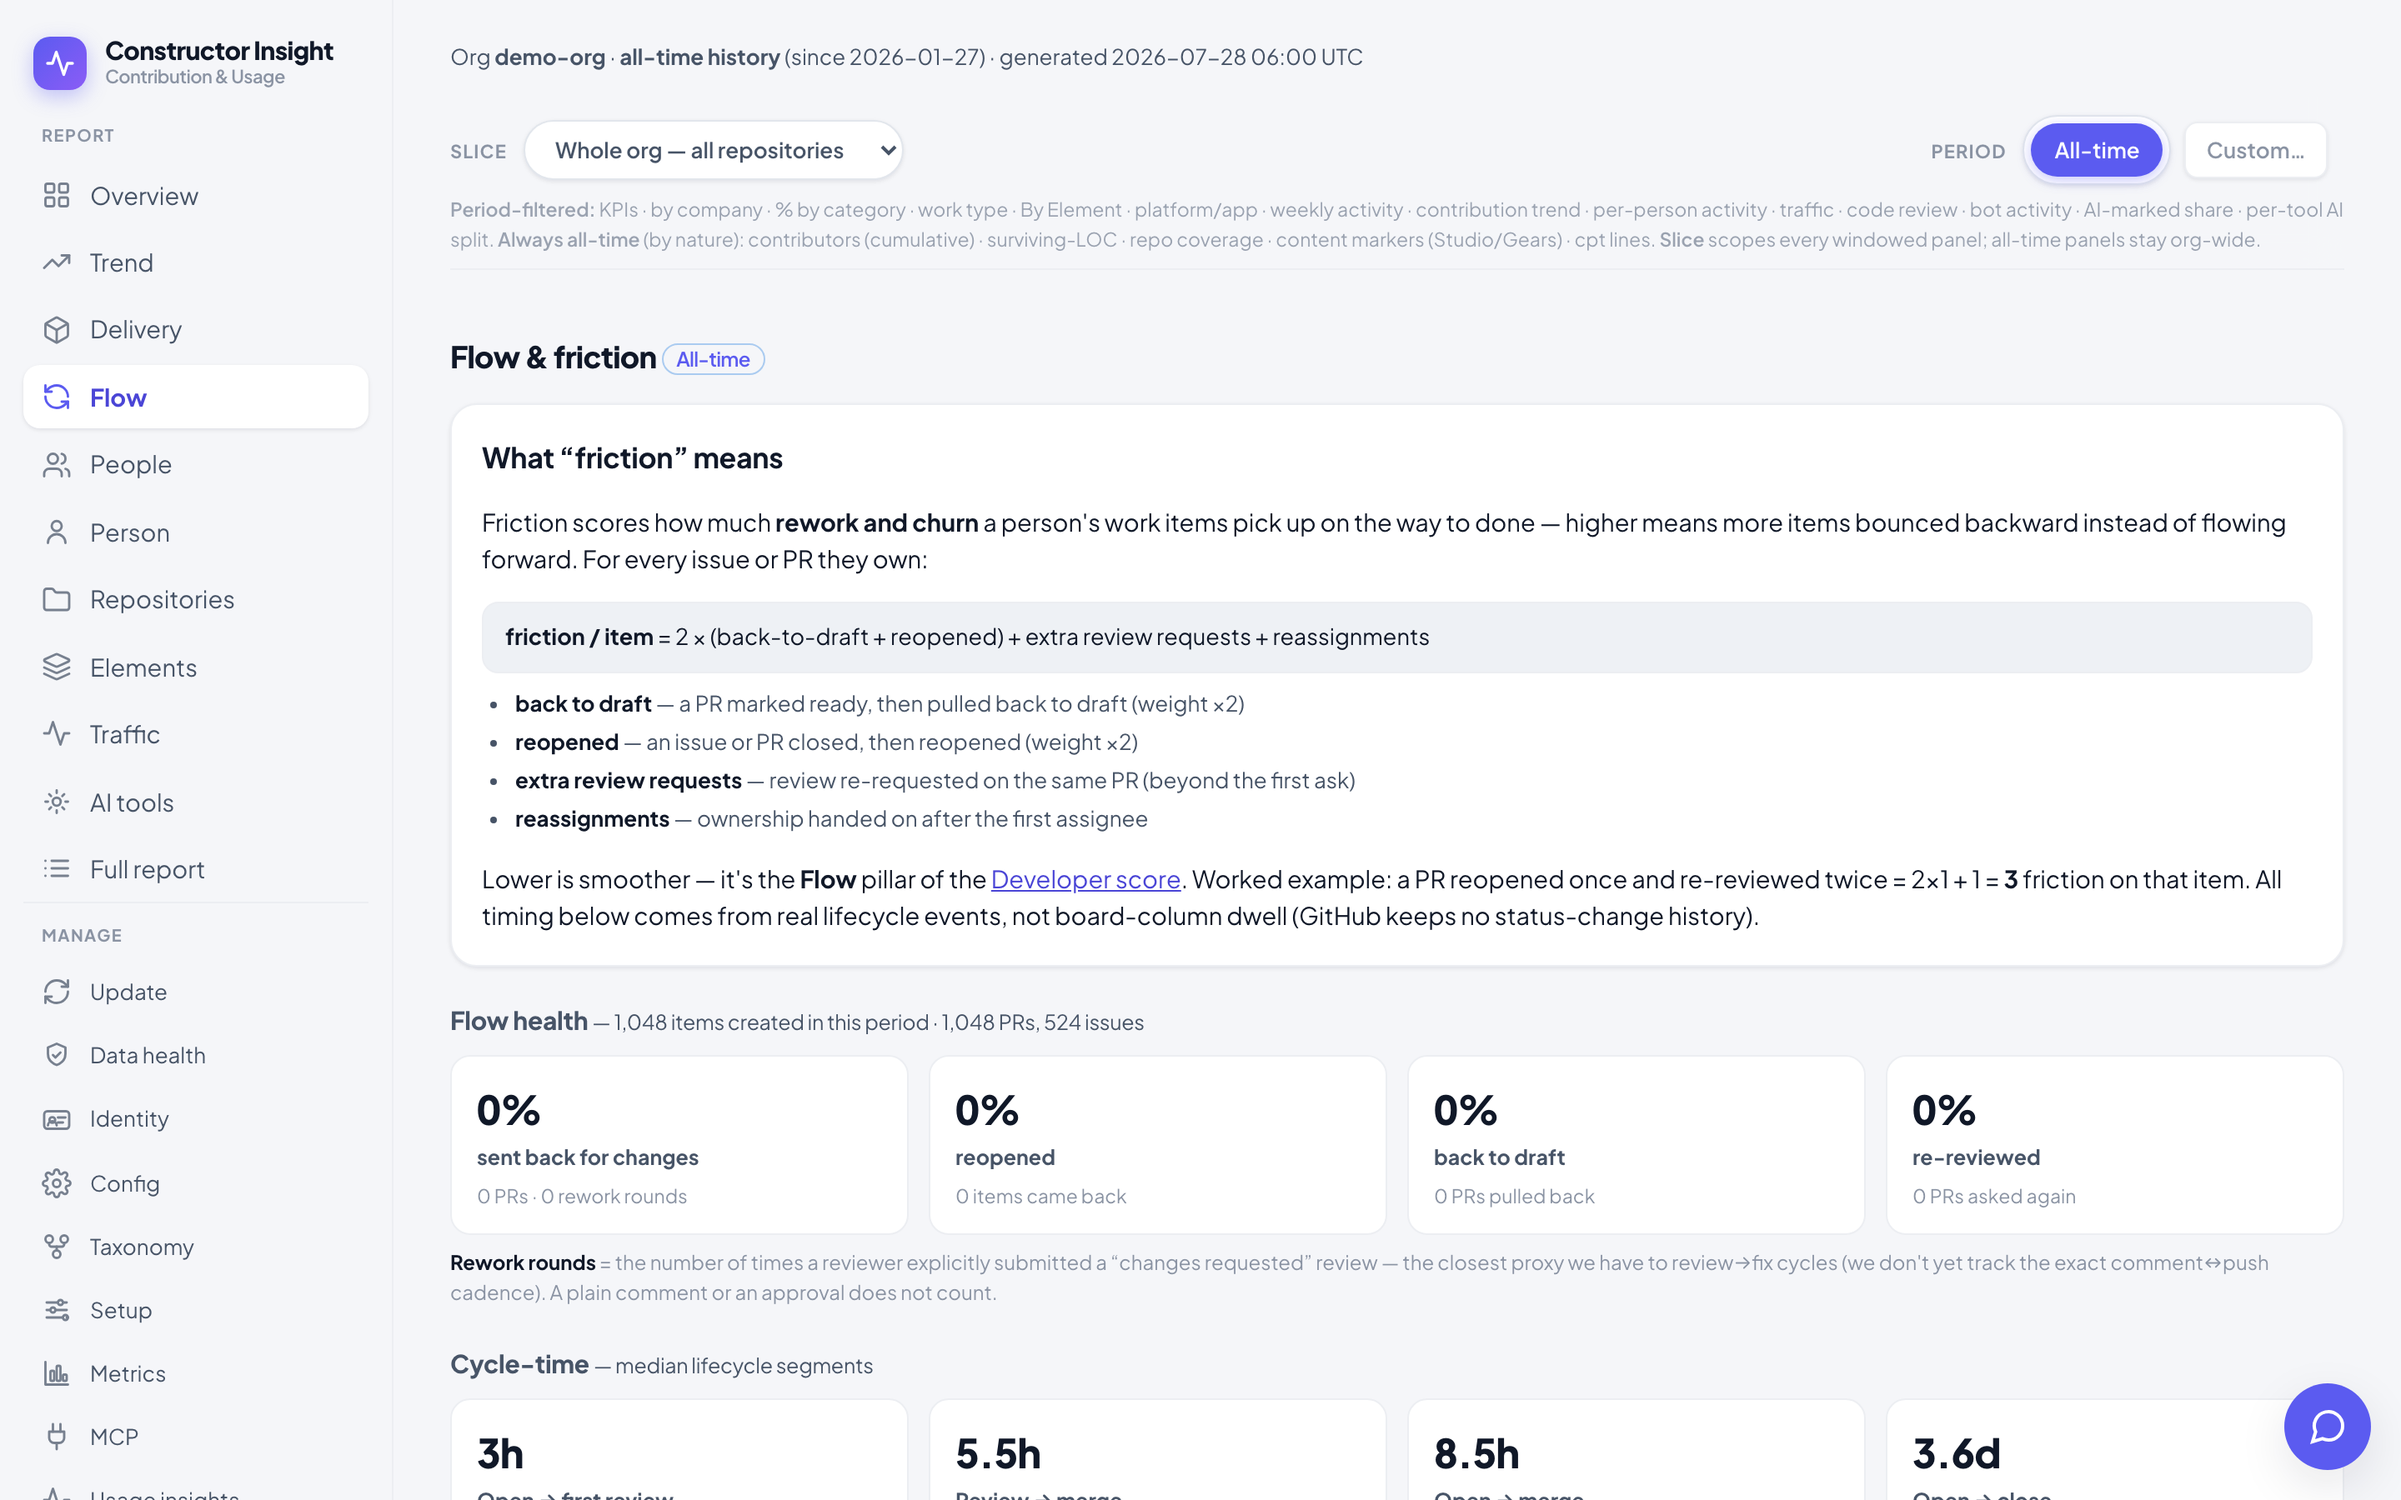
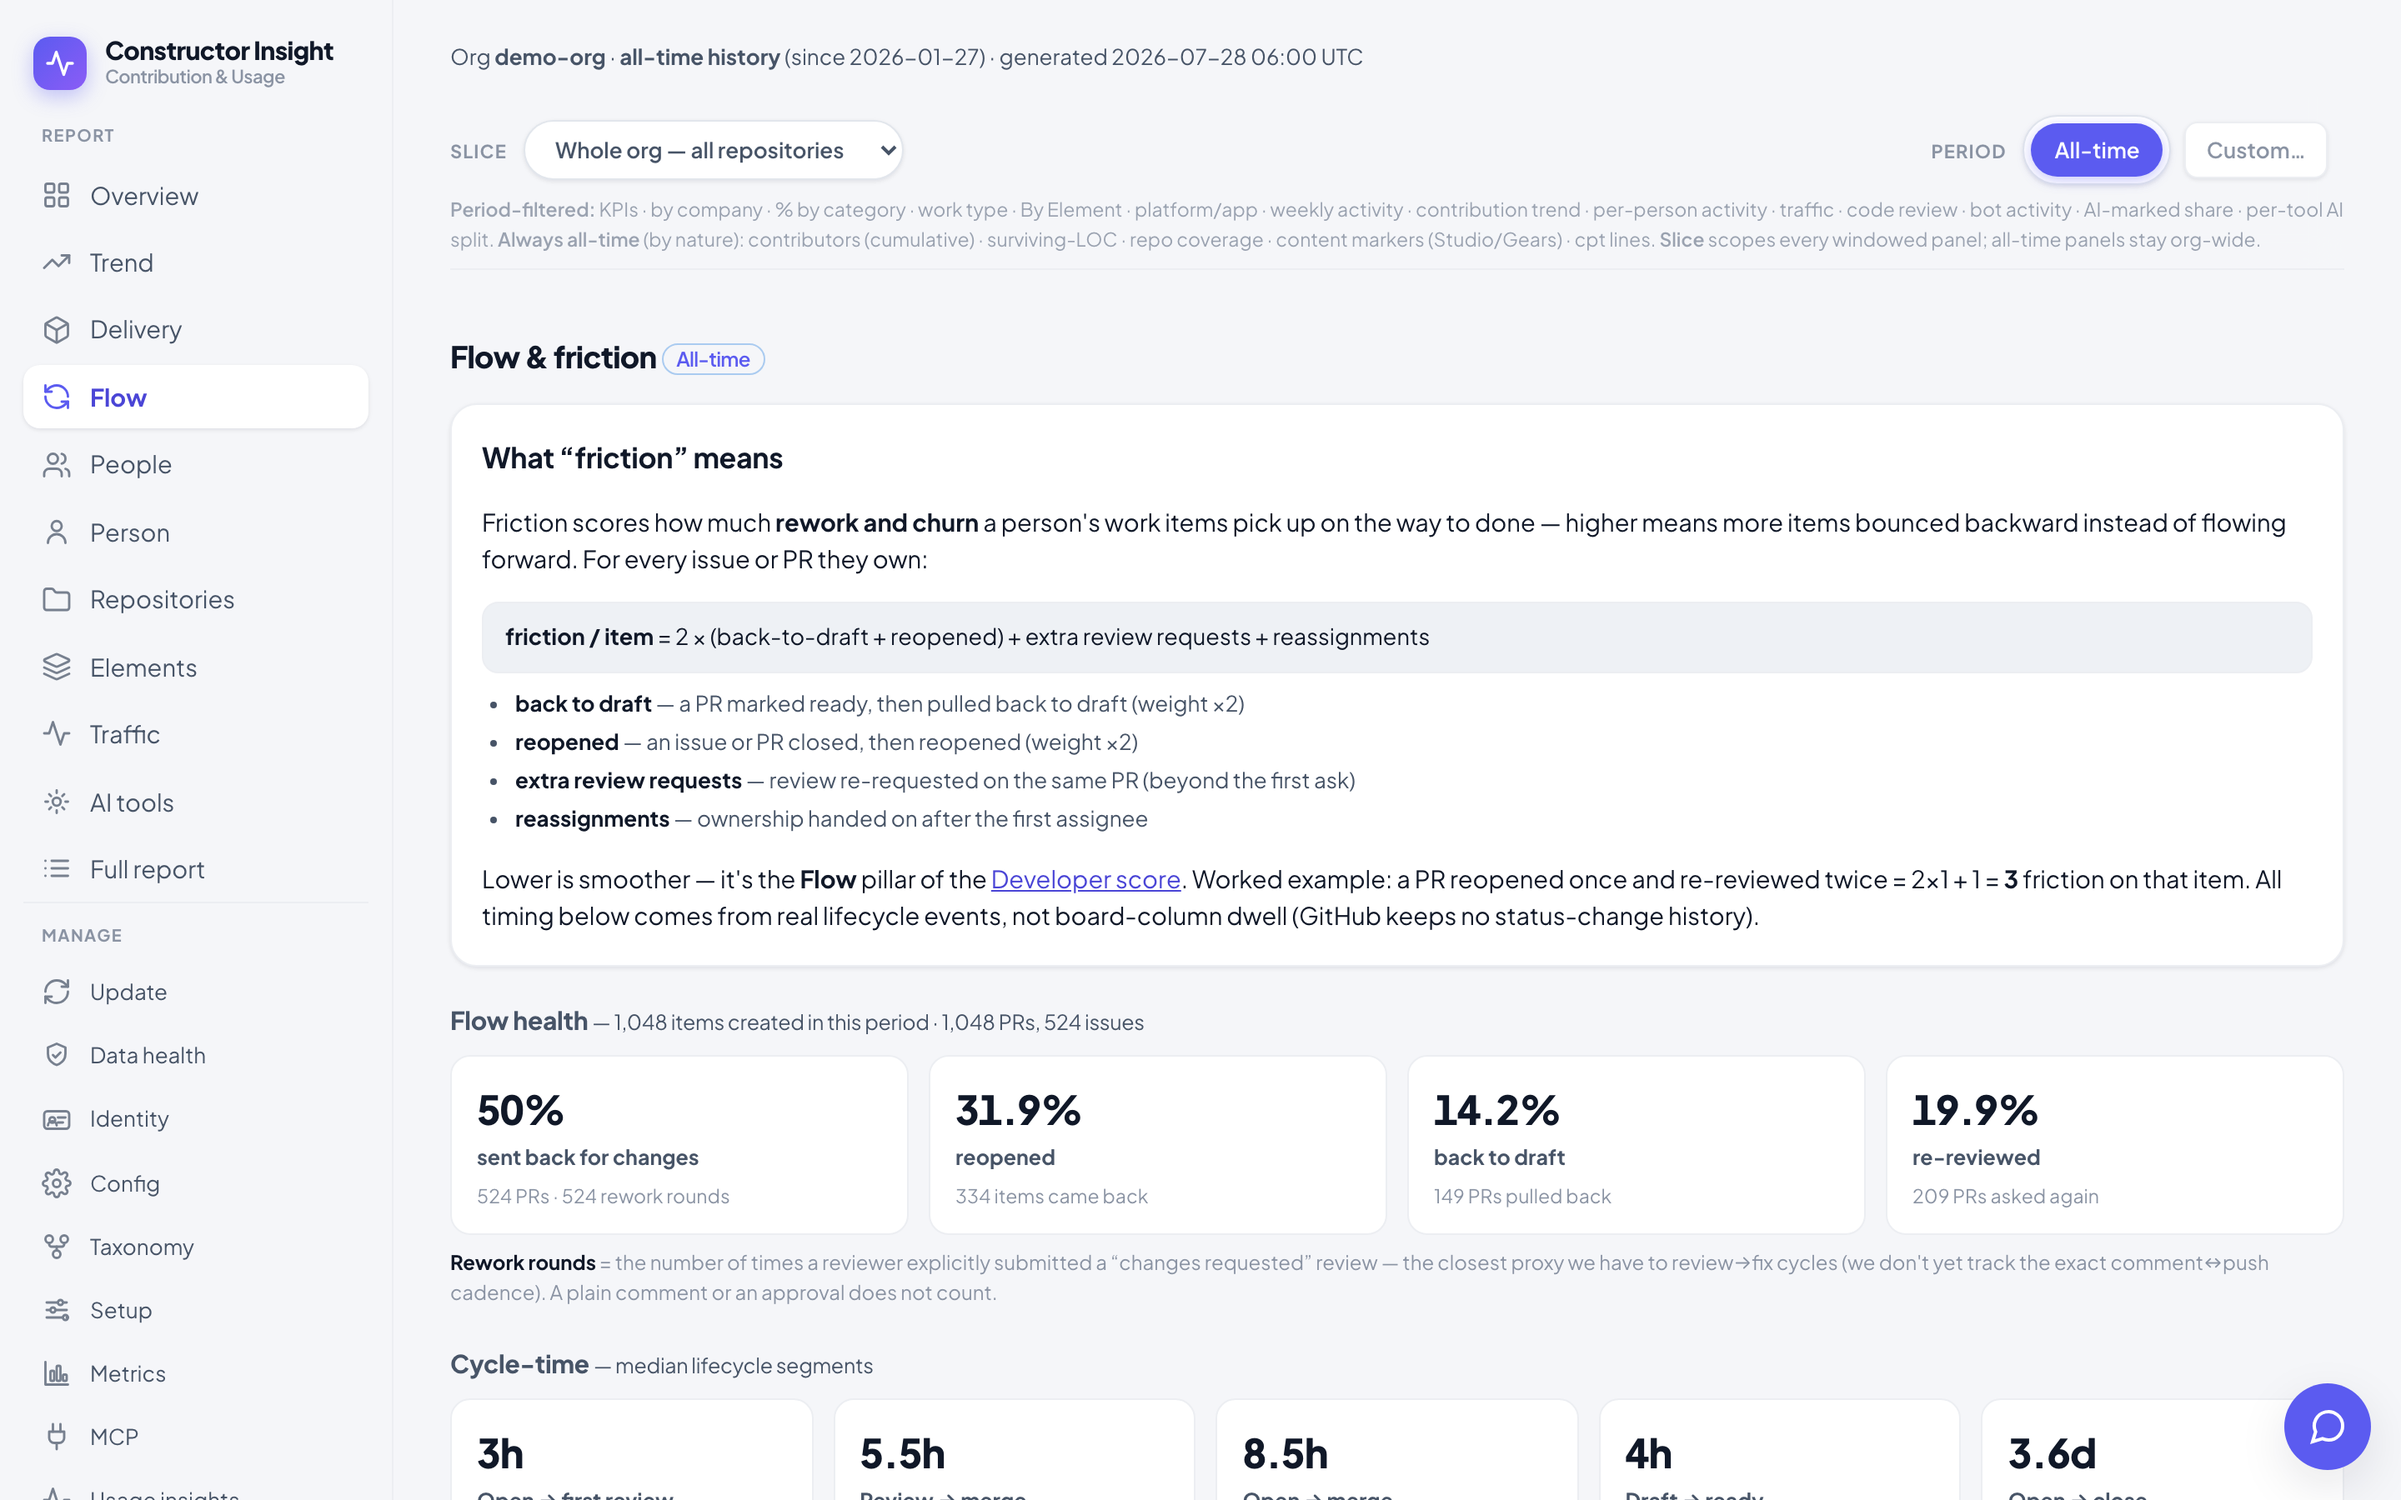
Demo data: make the panels the report exists for actually show something
The first screenshots undersold the tool in three places, and two of the three were bugs
in the fixture rather than thin data.

The epics tile read 0 because the epic branch was unreachable: issues are only created for
multiples of three, and the type was derived from n % 9, which for those can only ever be
0, 3 or 6. Derived from n // 3 now, and the tile reads 58 — worth noting that this looked
exactly like a bug in the report, which is the hazard of a fixture nobody checks.

The flow-health tiles all read 0% because the dataset had no rework at all: no reopens, no
back-to-draft, no repeated review requests. That is the one story the Flow view exists to
tell, so the screenshots were silent about the most interesting part. timeline_event rows
now carry review_requested, assigned, convert_to_draft, ready_for_review and reopened, and
the panel reads 31.9% reopened / 14.2% back to draft / 19.9% re-reviewed, with a
Draft → ready cycle-time segment that had nothing to measure before.

"Sent back for changes" stayed 0% after that, because it counts CHANGES_REQUESTED reviews
specifically — approvals and plain comments do not qualify, as the panel's own note says.
A quarter of reviews now request changes.

Screenshots recaptured: every KPI tile is populated and the Contributors block shows the
invented companies, which is also the fix from the previous commit visible in an image.

632 tests green on both runners.

diff --git a/demo.py b/demo.py
@@ -320,7 +320,11 @@ def seed(db_path: str | None = None, anchor: str | None = None) -> dict:
                     # epics) and the review-coverage panels have something to show —
                     # without them the report renders but half of it reads as zero.
                     if n % 3 == 0:
-                        kind = n % 9
+                        # derived from n//3, NOT n%9: issues only exist for multiples of
+                        # three, so n%9 could only ever be 0, 3 or 6 and the epic branch
+                        # was unreachable — the KPI tile read 0 and looked like a bug in
+                        # the report rather than in the fixture.
+                        kind = (n // 3) % 9
                         conn.execute(
                             "INSERT OR REPLACE INTO issue (repo, number, org,"
                             " author_login, created_at, is_bug, is_feature, is_epic,"
@@ -334,13 +338,39 @@ def seed(db_path: str | None = None, anchor: str | None = None) -> dict:
                              "closed" if n % 4 else "open", "completed" if n % 4 else None,
                              _iso(day + timedelta(days=2 + n % 5)) if n % 4 else None,
                              login, None, f"demo issue {n}"))
+                    # Lifecycle events, so the flow panels have rework to show. Without
+                    # these, "sent back for changes", "reopened", "back to draft" and
+                    # "re-reviewed" are all 0% — the one story the report exists to tell.
+                    tl = [("review_requested", 10), ("assigned", 10)]
+                    if n % 7 == 0:
+                        tl.append(("convert_to_draft", 11))
+                        tl.append(("ready_for_review", 13))
+                    if n % 11 == 0:
+                        tl.append(("reopened", 16))
+                    if n % 5 == 0:
+                        tl.append(("review_requested", 14))   # a second ask = re-review
+                    for ev, hh in tl:
+                        conn.execute(
+                            "INSERT INTO timeline_event (repo, item_type, number, event,"
+                            " actor_login, created_at) VALUES (?,?,?,?,?,?)",
+                            (key, "pr", n, ev, login, _iso(day.replace(hour=hh))))
+                    if n % 6 == 0:
+                        conn.execute(
+                            "INSERT INTO timeline_event (repo, item_type, number, event,"
+                            " actor_login, created_at) VALUES (?,?,?,?,?,?)",
+                            (key, "issue", n, "reopened", login,
+                             _iso(day.replace(hour=17))))
                     for ri2 in range(1 + n % 3):
                         reviewer = logins[(pi + 1 + ri2) % len(logins)]
+                        # CHANGES_REQUESTED is what "sent back for changes" and the
+                        # rework-rounds figure count; approvals and plain comments do
+                        # not, so a dataset with only those reads 0% there.
+                        state = ("CHANGES_REQUESTED" if (n + ri2) % 4 == 0
+                                 else "APPROVED" if ri2 == 0 else "COMMENTED")
                         conn.execute(
                             "INSERT OR REPLACE INTO review (repo, pr_number,"
                             " reviewer_login, state, submitted_at) VALUES (?,?,?,?,?)",
-                            (key, n, reviewer,
-                             "APPROVED" if ri2 == 0 else "COMMENTED",
+                            (key, n, reviewer, state,
                              _iso(day.replace(hour=12 + ri2))))
             day += timedelta(days=1)
 
@@ -373,7 +403,7 @@ def seed(db_path: str | None = None, anchor: str | None = None) -> dict:
         conn.commit()
         counts = {t: conn.execute(f"SELECT COUNT(*) FROM {t}").fetchone()[0]
                   for t in ("person", "repo", "commits", "pull_request", "issue",
-                            "review", "snapshots", "traffic", "runs")}
+                            "review", "timeline_event", "snapshots", "traffic", "runs")}
     finally:
         conn.close()
     return counts
